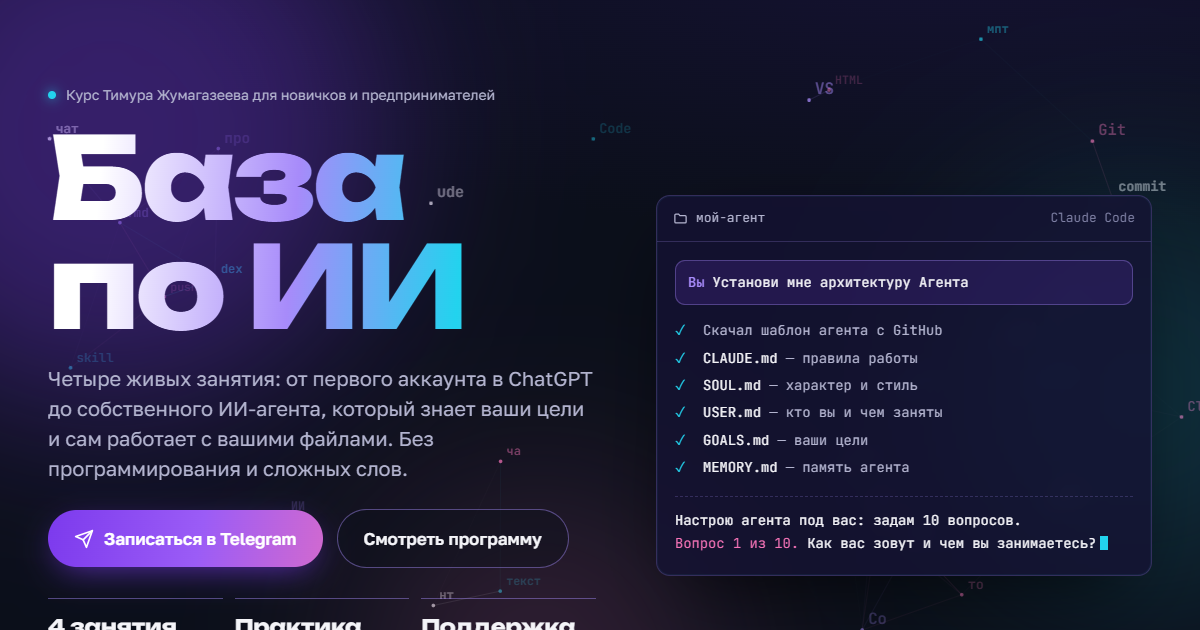
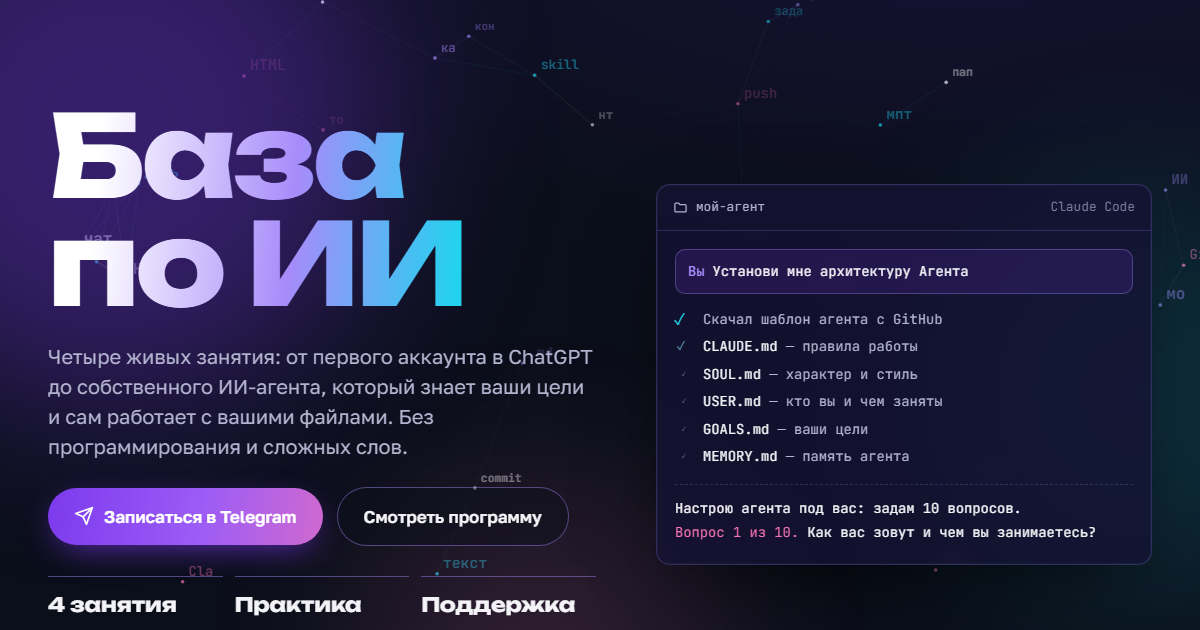
Убраны имя и фамилия автора со страницы курса и из превью

diff --git a/index.html b/index.html
@@ -5,13 +5,13 @@
 <meta name="viewport" content="width=device-width, initial-scale=1, viewport-fit=cover">
 <title>База по ИИ</title>
 <meta property="og:type" content="website">
-<meta property="og:title" content="База по ИИ — курс Тимура Жумагазеева">
+<meta property="og:title" content="База по ИИ — курс для новичков и предпринимателей">
 <meta property="og:description" content="Четыре живых занятия: от первого аккаунта в ChatGPT до собственного ИИ-агента. Без программирования и сложных слов.">
 <meta property="og:url" content="https://timzh777.github.io/baza-po-ii/">
 <meta property="og:image" content="https://timzh777.github.io/baza-po-ii/og.png">
 <meta property="og:image:width" content="1200">
 <meta property="og:image:height" content="630">
-<meta name="twitter:card" content="summary_large_image"><meta name="description" content="Курс Тимура Жумагазеева для новичков и предпринимателей: четыре живых занятия от первого аккаунта до собственного ИИ-агента.">
+<meta name="twitter:card" content="summary_large_image"><meta name="description" content="Курс для новичков и предпринимателей: четыре живых занятия от первого аккаунта до собственного ИИ-агента.">
 <link rel="preconnect" href="https://fonts.googleapis.com">
 <link rel="preconnect" href="https://fonts.gstatic.com" crossorigin>
 <link rel="stylesheet" href="https://fonts.googleapis.com/css2?family=Unbounded:wght@500;700;800&family=Golos+Text:wght@400;500;600;700&family=JetBrains+Mono:wght@400;500&display=swap">
@@ -452,9 +452,9 @@ footer .call a { font-size: var(--step-1); }
   </section>
 
   <section class="author" aria-labelledby="author-title">
-    <div class="avatar" aria-hidden="true">ТЖ</div>
+    <div class="avatar" aria-hidden="true">ИИ</div>
     <div class="text">
-      <h2 id="author-title">Тимур Жумагазеев</h2>
+      <h2 id="author-title">Об авторе</h2>
       <p class="role">Специалист и преподаватель в области искусственного интеллекта и криптовалют</p>
       <p>Каждый день работаю с ИИ-агентами. Мой собственный агент работает на сервере круглосуточно и отвечает мне в Telegram. На курсе показываю тот же путь, которым прошёл сам, только без лишних шагов.</p>
     </div>
@@ -511,7 +511,7 @@ footer .call a { font-size: var(--step-1); }
 </main>
 
 <footer>
-  <span>© 2026 Тимур Жумагазеев</span>
+  <span>© 2026 База по ИИ</span>
   <span>Курс «База по ИИ»</span>
   <p class="call">По вопросам звоните: <a href="tel:+79173955736">+7 917 395-57-36</a></p>
 </footer>

diff --git a/README.md b/README.md
@@ -1,5 +1,5 @@
 # База по ИИ
 
-Лендинг курса Тимура Жумагазеева «База по ИИ».
+Лендинг курса «База по ИИ».
 
 Сайт: https://timzh777.github.io/baza-po-ii/
